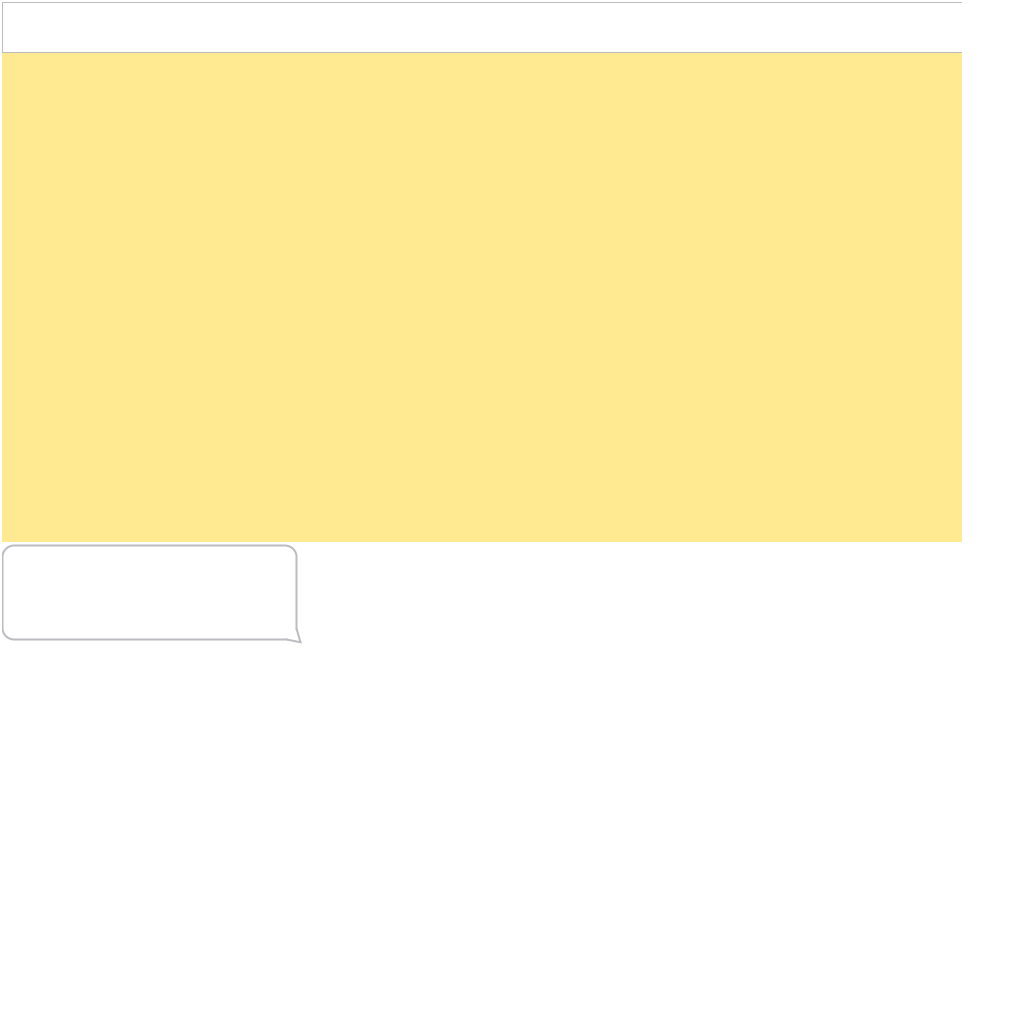
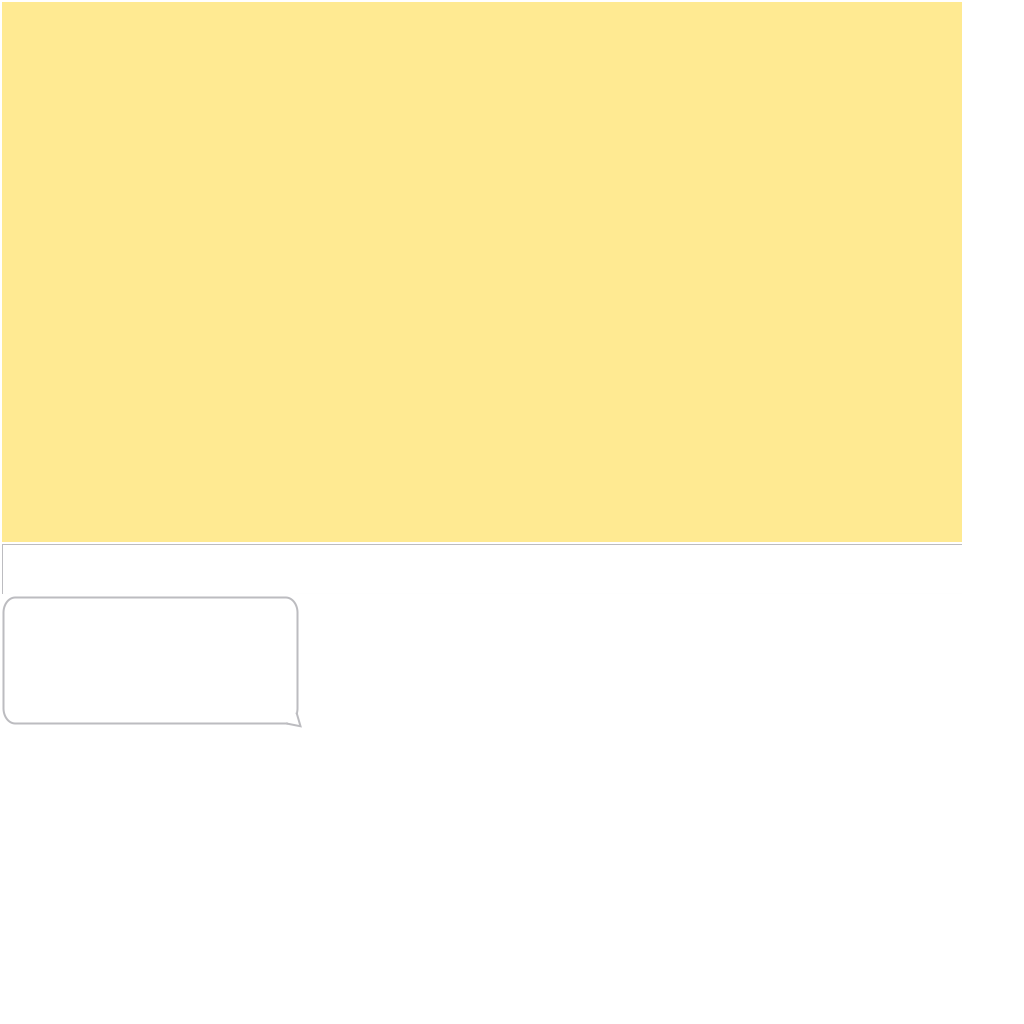
looping dialogue bubbles.

diff --git a/core/src/com/agmcleod/ritual_of_conversation/systems/DialogueSystem.java b/core/src/com/agmcleod/ritual_of_conversation/systems/DialogueSystem.java
@@ -1,6 +1,10 @@
 package com.agmcleod.ritual_of_conversation.systems;
 
+import com.agmcleod.ritual_of_conversation.actors.DialogueOptionBubbleActor;
 import com.agmcleod.ritual_of_conversation.components.DialogueOptionComponent;
+import com.agmcleod.ritual_of_conversation.components.TransformComponent;
+import com.agmcleod.ritual_of_conversation.entities.DialogueOptionBubble;
+import com.agmcleod.ritual_of_conversation.entities.GameEntity;
 import com.agmcleod.ritual_of_conversation.entities.NpcText;
 import com.agmcleod.ritual_of_conversation.entities.Player;
 import com.badlogic.ashley.core.Engine;
@@ -9,6 +13,10 @@ import com.badlogic.ashley.core.EntitySystem;
 import com.badlogic.ashley.core.Family;
 import com.badlogic.ashley.utils.ImmutableArray;
 import com.badlogic.gdx.Gdx;
+import com.badlogic.gdx.graphics.g2d.BitmapFont;
+import com.badlogic.gdx.graphics.g2d.TextureAtlas;
+import com.badlogic.gdx.math.MathUtils;
+import com.badlogic.gdx.scenes.scene2d.Stage;
 import com.badlogic.gdx.utils.ObjectMap;
 import com.google.gson.Gson;
 import com.google.gson.reflect.TypeToken;
@@ -44,17 +52,27 @@ class DialogueContent {
  * Created by aaronmcleod on 2016-01-29.
  */
 public class DialogueSystem extends EntitySystem {
+    private final float STAGGER = 200;
+    private TextureAtlas atlas;
     private Map<String, DialogueContent> dialogues;
     private Engine engine;
     private ImmutableArray<Entity> entities;
+    private BitmapFont font;
     private NpcText npcText;
     private Player player;
+    private Stage stage;
     private String currentId = "1";
+    private final int[] DIALOGUE_SPAWN_POINTS = new int[] {
+            0, 150, 300, 450, 600
+    };
 
-    public DialogueSystem(Engine engine, NpcText npcText, Player player) {
+    public DialogueSystem(Engine engine, Stage stage, TextureAtlas atlas, BitmapFont font, NpcText npcText, Player player) {
         this.player = player;
         this.npcText = npcText;
         this.engine = engine;
+        this.stage = stage;
+        this.atlas = atlas;
+        this.font = font;
 
         try {
             String jsonText = new String(Files.readAllBytes(Gdx.files.internal("dialogue.json").file().toPath()));
@@ -76,13 +94,52 @@ public class DialogueSystem extends EntitySystem {
 
     @Override
     public void update(float dt) {
+        for (int i = 0; i < entities.size(); i++) {
+            DialogueOptionBubble optionBubble = (DialogueOptionBubble) entities.get(i);
+            TransformComponent transformComponent = optionBubble.getTransform();
+            transformComponent.position.y -= 100 * dt;
 
+            if (transformComponent.position.y + transformComponent.height < 0) {
+                int nextIndex = i - 1;
+                if (nextIndex < 0) {
+                    nextIndex = entities.size() - 1;
+                }
+                if (nextIndex == i) {
+                    transformComponent.position.y = Gdx.graphics.getHeight() + transformComponent.height / 2;
+                } else {
+                    transformComponent.position.y = ((GameEntity) entities.get(nextIndex)).getTransform().position.y + STAGGER;
+                }
+            }
+        }
     }
 
     private void startDialogue() {
         if (dialogues.containsKey(currentId)) {
             DialogueContent content = dialogues.get(currentId);
             npcText.getTextContentComponent().text = content.text;
+
+            int startY = Gdx.graphics.getHeight();
+
+            for (int i = 0; i < content.options.length; i++) {
+                DialogueOptionContent optionContent = content.options[i];
+                int startPoint = DIALOGUE_SPAWN_POINTS[MathUtils.random(0, DIALOGUE_SPAWN_POINTS.length - 1)];
+                startPoint += MathUtils.random(-10, 10);
+                if (startPoint < 0) {
+                    startPoint = MathUtils.random(0, 10);
+                }
+
+                startPoint += DialogueOptionBubble.WIDTH / 2;
+                DialogueOptionBubble bubble = new DialogueOptionBubble(startPoint, startY + (STAGGER * i));
+                bubble.getTextContentComponent().text = optionContent.text;
+                DialogueOptionComponent optionComponent = bubble.getDialogueOptionComponent();
+                optionComponent.optionIndex = i;
+
+                engine.addEntity(bubble);
+
+                stage.addActor(new DialogueOptionBubbleActor(atlas, font, bubble));
+            }
+
+            setEntities(engine);
         }
     }
 

diff --git a/core/src/com/agmcleod/ritual_of_conversation/actors/DialogueOptionBubbleActor.java b/core/src/com/agmcleod/ritual_of_conversation/actors/DialogueOptionBubbleActor.java
@@ -1,0 +1,40 @@
+package com.agmcleod.ritual_of_conversation.actors;
+
+import com.agmcleod.ritual_of_conversation.components.TransformComponent;
+import com.agmcleod.ritual_of_conversation.entities.DialogueOptionBubble;
+import com.agmcleod.ritual_of_conversation.helpers.EntityToScreenConversion;
+import com.badlogic.gdx.graphics.g2d.Batch;
+import com.badlogic.gdx.graphics.g2d.BitmapFont;
+import com.badlogic.gdx.graphics.g2d.TextureAtlas;
+import com.badlogic.gdx.graphics.g2d.TextureRegion;
+import com.badlogic.gdx.math.Vector2;
+import com.badlogic.gdx.scenes.scene2d.Actor;
+
+/**
+ * Created by aaronmcleod on 2016-01-30.
+ */
+public class DialogueOptionBubbleActor extends Actor {
+    private DialogueOptionBubble dialogueOptionBubble;
+    private BitmapFont font;
+    private TextureRegion region;
+    public DialogueOptionBubbleActor(TextureAtlas atlas, BitmapFont font, DialogueOptionBubble dialogueOptionBubble) {
+        this.dialogueOptionBubble = dialogueOptionBubble;
+        region = atlas.findRegion("speech");
+        this.font = font;
+        setBoundsFromEntity();
+    }
+
+    @Override
+    public void draw(Batch batch, float alpha) {
+        setBoundsFromEntity();
+        batch.draw(region, getX(), getY(), getWidth(), getHeight());
+        font.draw(batch, dialogueOptionBubble.getTextContentComponent().text, getX() + 20, getY() + getHeight() - 20);
+    }
+
+    public void setBoundsFromEntity() {
+        TransformComponent transformComponent = dialogueOptionBubble.getTransform();
+        Vector2 position = EntityToScreenConversion.getPosition(transformComponent);
+        setBounds(position.x, position.y, transformComponent.width, transformComponent.height);
+    }
+
+}

diff --git a/core/src/com/agmcleod/ritual_of_conversation/actors/NpcTextActor.java b/core/src/com/agmcleod/ritual_of_conversation/actors/NpcTextActor.java
@@ -3,8 +3,11 @@ package com.agmcleod.ritual_of_conversation.actors;
 import com.agmcleod.ritual_of_conversation.components.TransformComponent;
 import com.agmcleod.ritual_of_conversation.entities.NpcText;
 import com.agmcleod.ritual_of_conversation.helpers.EntityToScreenConversion;
+import com.badlogic.gdx.Gdx;
 import com.badlogic.gdx.graphics.g2d.Batch;
 import com.badlogic.gdx.graphics.g2d.BitmapFont;
+import com.badlogic.gdx.graphics.g2d.TextureAtlas;
+import com.badlogic.gdx.graphics.g2d.TextureRegion;
 import com.badlogic.gdx.math.Vector2;
 import com.badlogic.gdx.scenes.scene2d.Actor;
 
@@ -14,15 +17,19 @@ import com.badlogic.gdx.scenes.scene2d.Actor;
 public class NpcTextActor extends Actor {
     private BitmapFont font;
     private NpcText npcText;
-    public NpcTextActor(BitmapFont font, NpcText npcText) {
+    private TextureRegion region;
+    public NpcTextActor(TextureAtlas atlas, BitmapFont font, NpcText npcText) {
         this.npcText = npcText;
         this.font = font;
+        this.region = atlas.findRegion("npctextbackground");
+        setZIndex(9999);
     }
 
     @Override
     public void draw(Batch batch, float alpha) {
         TransformComponent transformComponent = npcText.getTransform();
         Vector2 position = EntityToScreenConversion.getPosition(transformComponent);
+        batch.draw(this.region, 0, Gdx.graphics.getHeight() - region.getRegionHeight());
         font.draw(batch, npcText.getTextContentComponent().text, position.x, position.y);
     }
 }

diff --git a/core/src/com/agmcleod/ritual_of_conversation/entities/DialogueOptionBubble.java b/core/src/com/agmcleod/ritual_of_conversation/entities/DialogueOptionBubble.java
@@ -3,17 +3,25 @@ package com.agmcleod.ritual_of_conversation.entities;
 import com.agmcleod.ritual_of_conversation.components.ComponentMappers;
 import com.agmcleod.ritual_of_conversation.components.DialogueOptionComponent;
 import com.agmcleod.ritual_of_conversation.components.TextContentComponent;
+import com.agmcleod.ritual_of_conversation.components.TransformComponent;
 
 /**
  * Created by aaronmcleod on 2016-01-29.
  */
 public class DialogueOptionBubble extends GameEntity {
-    public DialogueOptionBubble() {
+    public static final float WIDTH = 300;
+    public static final float HEIGHT = 150;
+    public DialogueOptionBubble(float x, float y) {
+        add(new TransformComponent(x, y, WIDTH, HEIGHT));
         add(new TextContentComponent());
         add(new DialogueOptionComponent());
     }
 
     public TextContentComponent getTextContentComponent() {
         return ComponentMappers.textContent.get(this);
+    }
+
+    public DialogueOptionComponent getDialogueOptionComponent() {
+        return ComponentMappers.dialogueOptions.get(this);
     }
 }

diff --git a/core/src/com/agmcleod/ritual_of_conversation/screens/PlayScreen.java b/core/src/com/agmcleod/ritual_of_conversation/screens/PlayScreen.java
@@ -49,14 +49,14 @@ public class PlayScreen implements Screen {
 
     public void createDialogueSystem(Player player) {
         NpcText npcText = new NpcText();
-        DialogueSystem dialogueSystem = new DialogueSystem(engine, npcText, player);
+        DialogueSystem dialogueSystem = new DialogueSystem(engine, stage, atlas, dialogueFont, npcText, player);
         engine.addSystem(dialogueSystem);
-        NpcTextActor npcTextActor = new NpcTextActor(dialogueFont, npcText);
+        NpcTextActor npcTextActor = new NpcTextActor(atlas, dialogueFont, npcText);
         stage.addActor(npcTextActor);
     }
 
     public void createPlayer(Player player) {
-        PlayerActor playerActor = new PlayerActor(player, atlas);
+        PlayerActor playerActor = new PlayerActor(atlas, player);
         stage.setKeyboardFocus(playerActor);
 
         engine.addEntity(player);

diff --git a/core/src/com/agmcleod/ritual_of_conversation/actors/PlayerActor.java b/core/src/com/agmcleod/ritual_of_conversation/actors/PlayerActor.java
@@ -18,7 +18,7 @@ public class PlayerActor extends Actor {
     private Player player;
     private TextureRegion region;
 
-    public PlayerActor(final Player player, TextureAtlas textureAtlas) {
+    public PlayerActor(TextureAtlas textureAtlas, final Player player) {
         this.player = player;
         region = textureAtlas.findRegion("player");
 

diff --git a/core/src/com/agmcleod/ritual_of_conversation/components/DialogueOptionComponent.java b/core/src/com/agmcleod/ritual_of_conversation/components/DialogueOptionComponent.java
@@ -6,4 +6,5 @@ import com.badlogic.ashley.core.Component;
  * Created by aaronmcleod on 2016-01-29.
  */
 public class DialogueOptionComponent implements Component {
+    public int optionIndex;
 }
